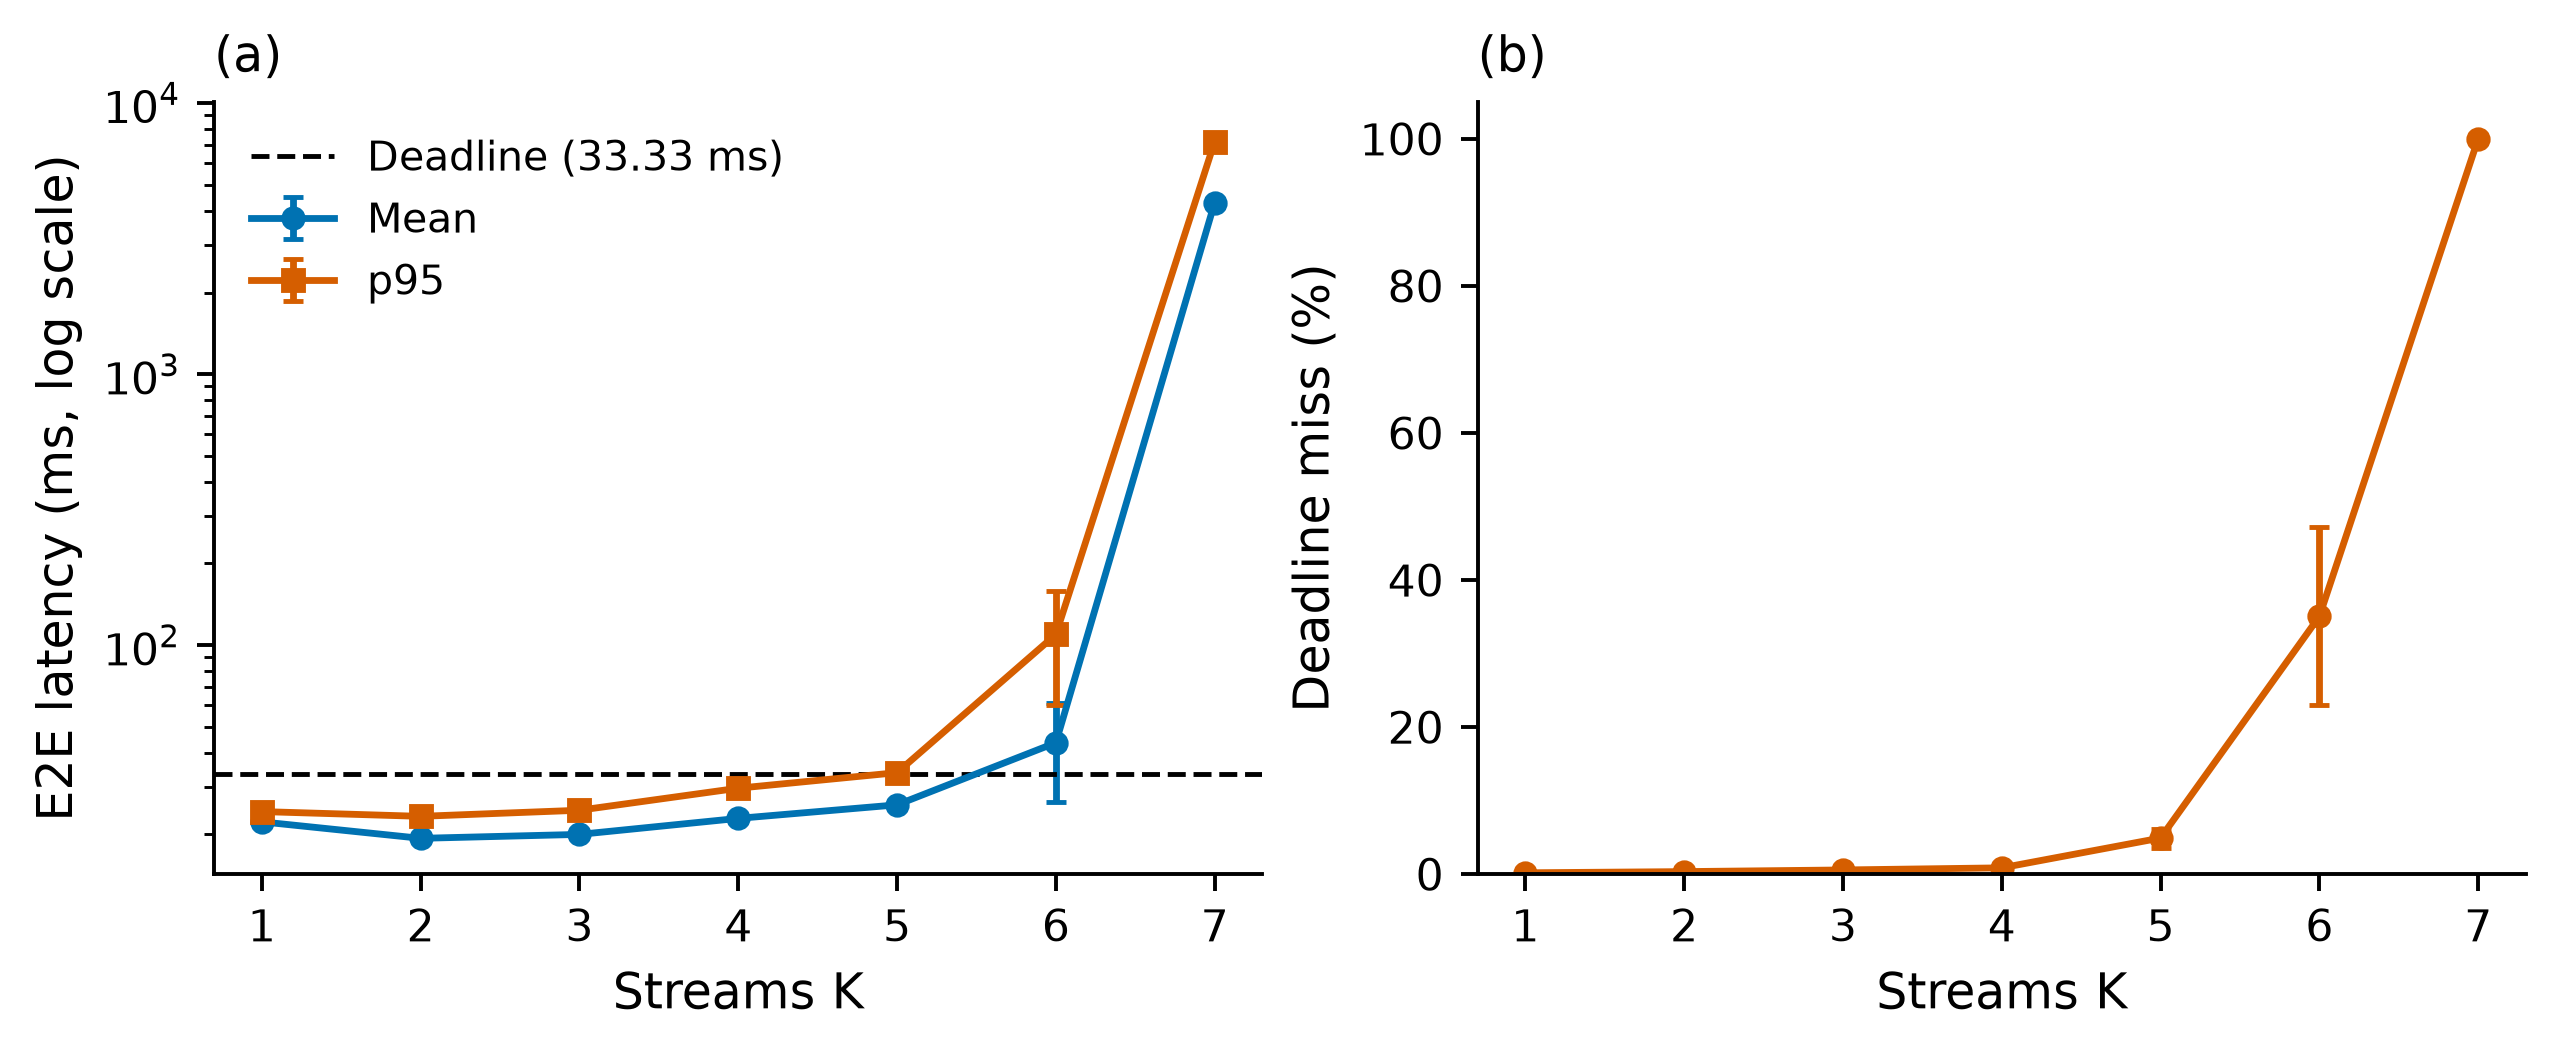
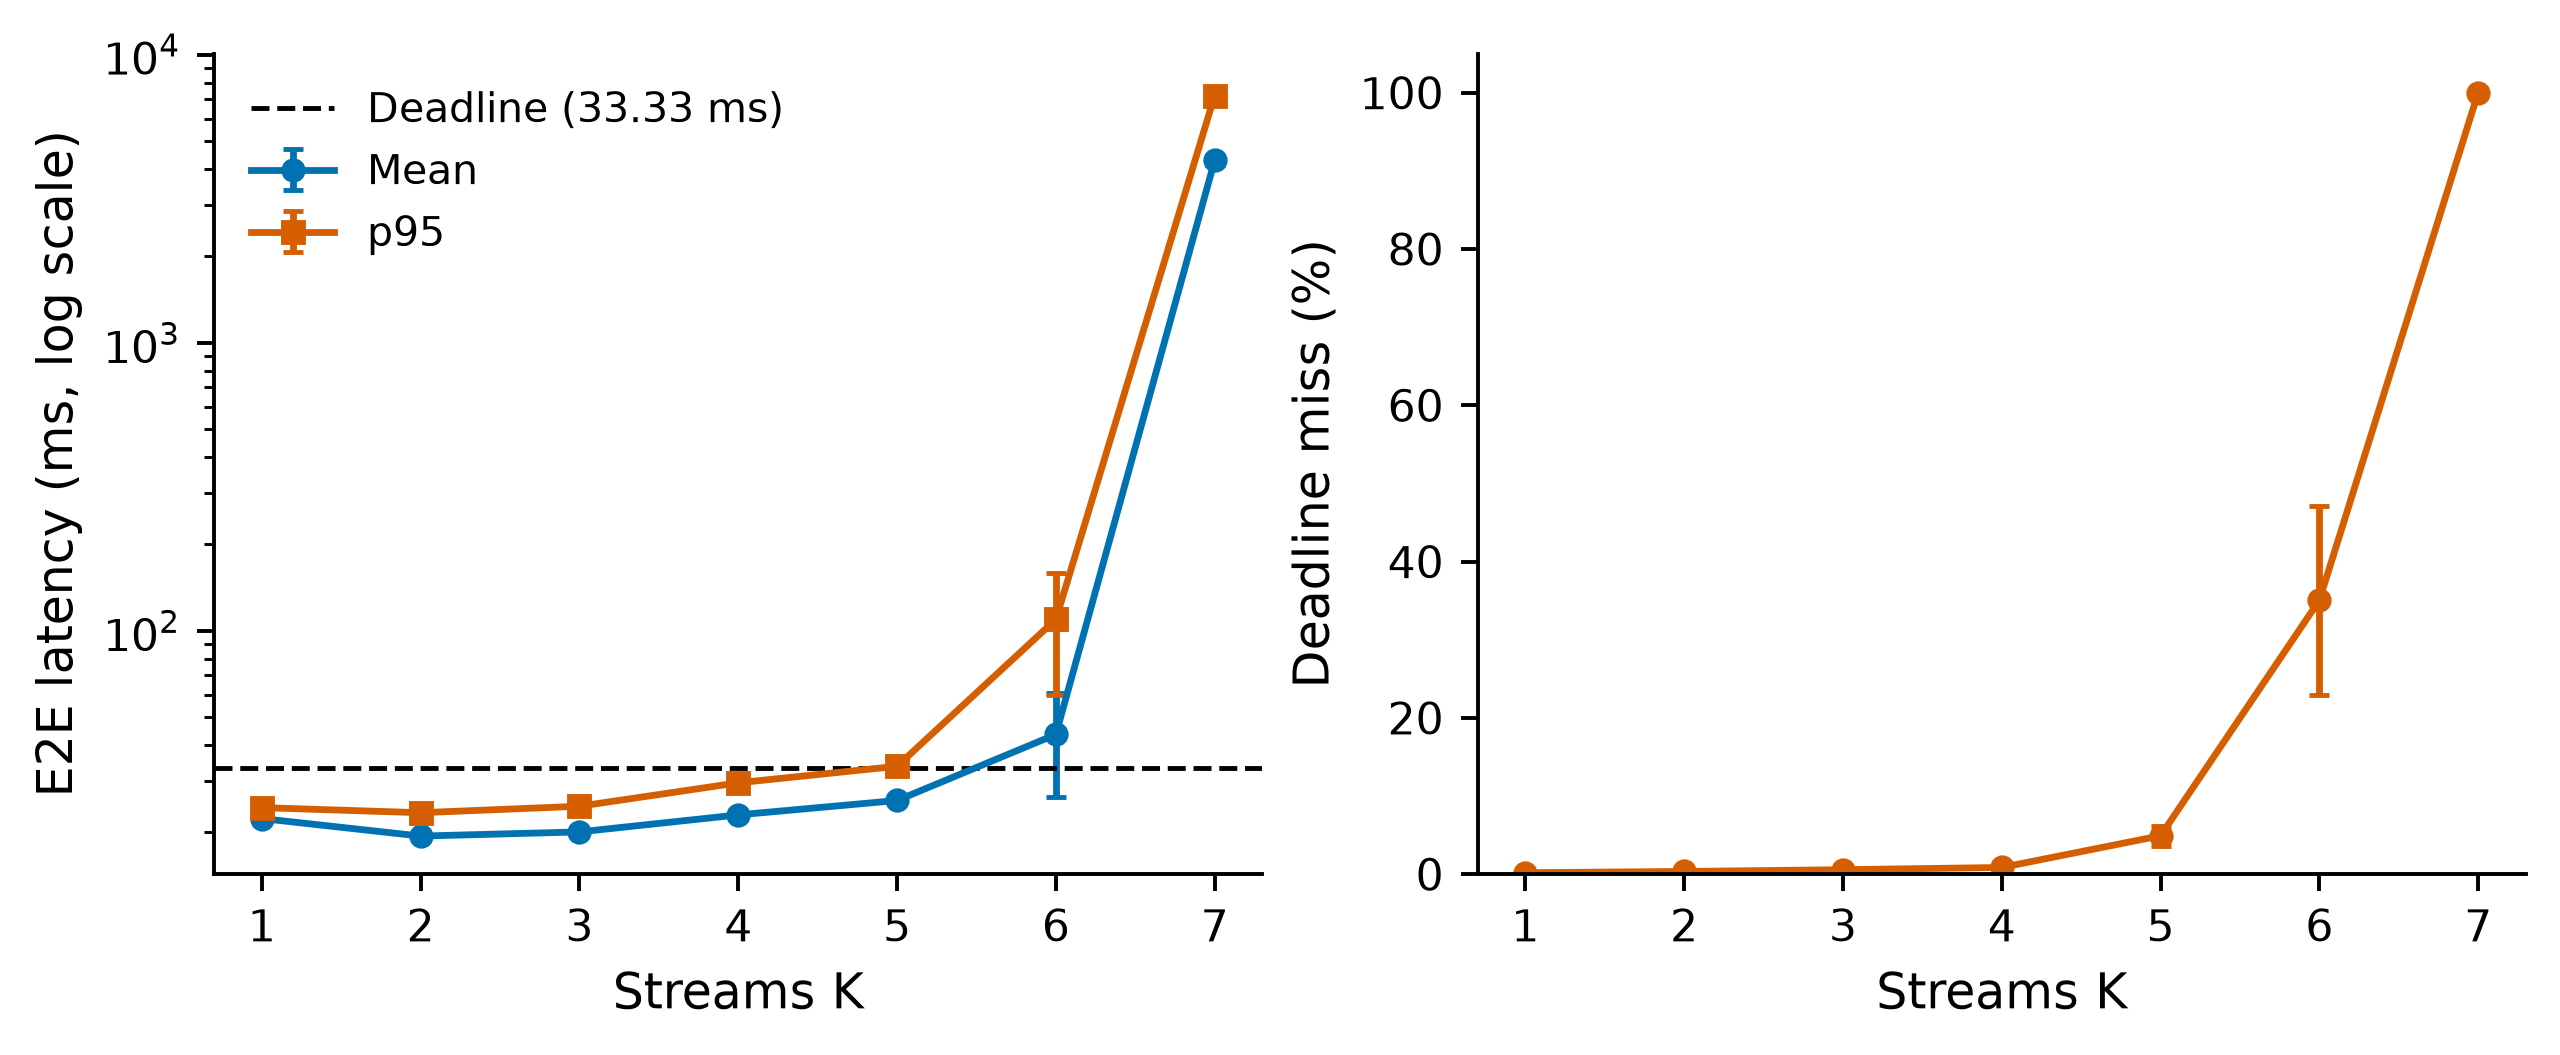
Remove subplot labels from local paper figures

diff --git a/results/local_latency_breakdown/analysis/temporal_queue/characterize_temporal_queue.py b/results/local_latency_breakdown/analysis/temporal_queue/characterize_temporal_queue.py
@@ -346,7 +346,14 @@ def figures():
     matplotlib.use('Agg')
     import matplotlib.pyplot as plt
     from matplotlib.ticker import ScalarFormatter
-    d=load(OUT/'temporal_data.json')
+    # Render from existing CSVs only; no raw timing or temporal analysis rerun.
+    d={'run_summary':[dict(r,K=int(r['K'])) for r in csvread(ROOT/'per_run_summary.csv')]}
+    for section,name in [('ready','ready_span_summary.csv'),
+                         ('service','period_service_demand_summary.csv'),
+                         ('carry','carryover_summary.csv')]:
+        d[section]=[{key:(int(value) if key=='K' else value if key in
+                         ('row_type','run_id','scope') else float(value))
+                     for key,value in r.items()} for r in csvread(OUT/name)]
     plt.rcParams.update({'font.family':'DejaVu Sans','font.size':10,'axes.labelsize':10,
         'xtick.labelsize':9,'ytick.labelsize':9,'legend.fontsize':8.5,
         'axes.spines.top':False,'axes.spines.right':False,'axes.grid':False,'savefig.dpi':350})
@@ -367,7 +374,7 @@ def figures():
     values=formal_values('deadline_miss_pct')
     axes[1].errorbar(ks,values.mean(axis=1),yerr=values.std(axis=1,ddof=1),color=orange,marker='o',markersize=4,capsize=2,lw=1.4)
     axes[1].set_ylim(0,105);axes[1].set_ylabel('Deadline miss (%)')
-    for ax,tag in zip(axes,['(a)','(b)']):ax.set_xticks(ks);ax.set_xlabel('Streams K');ax.text(0,1.04,tag,transform=ax.transAxes)
+    for ax in axes:ax.set_xticks(ks);ax.set_xlabel('Streams K')
     save(fig,'figure_1_local_qos_knee.png')
     fig,axes=plt.subplots(1,2,figsize=(7.2,2.8),gridspec_kw={'width_ratios':[3,1]},layout='constrained')
     comps=['frame_start_lag','front_end','inference_queue_wait','inference']
@@ -385,12 +392,11 @@ def figures():
     specs=[('ready','ready_span_mean_ms','Ready span (ms)',None),
            ('service','period_inference_service_sum_mean_ms','Service sum / period (ms)',None),
            ('carry','inference_unfinished_carryover_period_pct','Unfinished carry-over (%)','all_60s')]
-    for ax,(section,metric,label,scope),tag in zip(axes,specs,['(a)','(b)','(c)']):
+    for ax,(section,metric,label,scope) in zip(axes,specs):
         values=[row(d,section,k,scope=scope)[metric] for k in (5,6)]
         sd=[row(d,section,k,'sample_sd',scope=scope)[metric] for k in (5,6)]
         ax.bar([0,1],values,yerr=sd,color=[blue,orange],width=.6,capsize=3,error_kw={'elinewidth':1})
         ax.set_xticks([0,1],['5','6']);ax.set_xlabel('Streams K');ax.set_ylabel(label);ax.set_ylim(bottom=0)
-        ax.text(0,1.04,tag,transform=ax.transAxes)
     axes[1].axhline(1000/30,color='black',ls='--',lw=1,label='Frame period')
     axes[1].legend(loc='upper left',frameon=False,fontsize=8);axes[1].set_ylim(0,41)
     axes[2].set_ylim(0,105)
